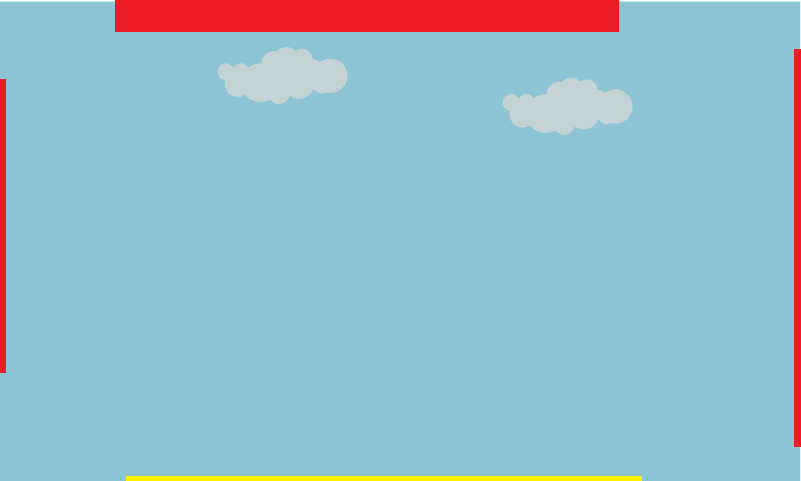
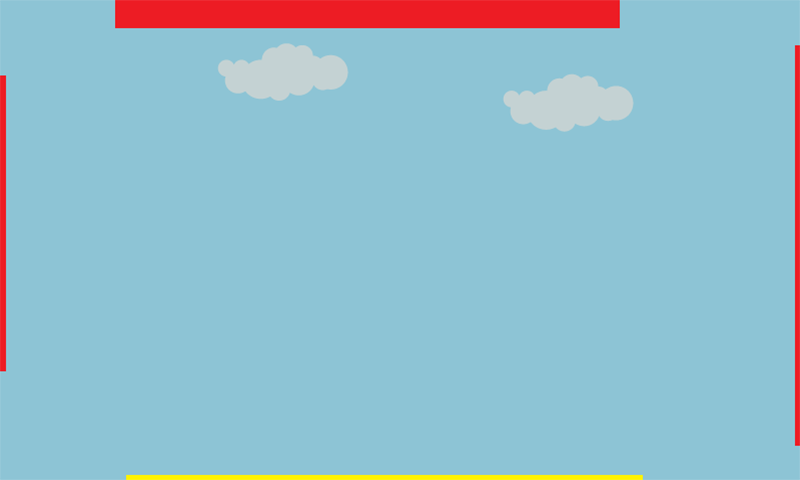
Collision detection + Support multi resolution

diff --git a/Classes/AppDelegate.cpp b/Classes/AppDelegate.cpp
@@ -42,10 +42,10 @@ using namespace CocosDenshion;
 
 USING_NS_CC;
 
-static cocos2d::Size designResolutionSize = cocos2d::Size(1000, 600);// bgWidth=801, bgheight=481 => 1000 / bgWidth * bgHeight = 600
+static cocos2d::Size designResolutionSize = cocos2d::Size(800, 480);// based on background image dimensions
 static cocos2d::Size smallResolutionSize = cocos2d::Size(480, 320);
-static cocos2d::Size mediumResolutionSize = cocos2d::Size(1024, 768);
-static cocos2d::Size largeResolutionSize = cocos2d::Size(2048, 1536);
+static cocos2d::Size mediumResolutionSize = cocos2d::Size(400, 240);
+static cocos2d::Size largeResolutionSize = cocos2d::Size(800, 480);
 
 AppDelegate::AppDelegate()
 {
@@ -83,7 +83,7 @@ bool AppDelegate::applicationDidFinishLaunching() {
     auto glview = director->getOpenGLView();
     if(!glview) {
 #if (CC_TARGET_PLATFORM == CC_PLATFORM_WIN32) || (CC_TARGET_PLATFORM == CC_PLATFORM_MAC) || (CC_TARGET_PLATFORM == CC_PLATFORM_LINUX)
-        glview = GLViewImpl::createWithRect("Bazooka", cocos2d::Rect(0, 0, designResolutionSize.width, designResolutionSize.height));
+        glview = GLViewImpl::createWithRect("Bazooka", cocos2d::Rect(0, 0, 1280, 720));
 #else
         glview = GLViewImpl::create("Bazooka");
 #endif
@@ -97,30 +97,24 @@ bool AppDelegate::applicationDidFinishLaunching() {
     director->setAnimationInterval(1.0f / 60);
 
     // Set the design resolution
-    glview->setDesignResolutionSize(designResolutionSize.width, designResolutionSize.height, ResolutionPolicy::NO_BORDER);
-    auto frameSize = glview->getFrameSize();
+	glview->setDesignResolutionSize(designResolutionSize.width, designResolutionSize.height, ResolutionPolicy::EXACT_FIT);
+
+	auto frameSize = glview->getFrameSize();
     // if the frame's height is larger than the height of medium size.
-    if (frameSize.height > mediumResolutionSize.height)
+    if (frameSize.height > 240)
     {        
-        director->setContentScaleFactor(MIN(largeResolutionSize.height/designResolutionSize.height, largeResolutionSize.width/designResolutionSize.width));
-    }
-    // if the frame's height is larger than the height of small size.
-    else if (frameSize.height > smallResolutionSize.height)
+        director->setContentScaleFactor(largeResolutionSize.height/designResolutionSize.height);
+    }else
     {        
-        director->setContentScaleFactor(MIN(mediumResolutionSize.height/designResolutionSize.height, mediumResolutionSize.width/designResolutionSize.width));
-    }
-    // if the frame's height is smaller than the height of medium size.
-    else
-    {        
-        director->setContentScaleFactor(MIN(smallResolutionSize.height/designResolutionSize.height, smallResolutionSize.width/designResolutionSize.width));
+        director->setContentScaleFactor(mediumResolutionSize.height/designResolutionSize.height);
     }
 
     register_all_packages();
 
     // create a scene. it's an autorelease object
     auto scene = HelloWorld::createScene();
-
-    // run
+    
+	// run
     director->runWithScene(scene);
 
     return true;

diff --git a/Classes/GameplayLayer.cpp b/Classes/GameplayLayer.cpp
@@ -1,11 +1,12 @@
 #include "GameplayLayer.h"
 #include "SimpleAudioEngine.h"
 
-GameplayLayer::GameplayLayer()
+GameplayLayer::GameplayLayer(Sprite* _hero)
 {
 	visibleSize = Director::getInstance()->getVisibleSize();
 	winSize = Director::getInstance()->getWinSize();
 	origin = Director::getInstance()->getVisibleOrigin();
+	hero = _hero;
 }
 
 GameplayLayer::~GameplayLayer()
@@ -68,6 +69,43 @@ void GameplayLayer::update()
 		}
 	}
 
+	//player rocket and enemies collision
+	if (playerBullets.size() >= 0)
+	{
+		for (int i = 0; i < playerBullets.size(); ++i)
+		{
+			Projectile* p = playerBullets.at(i);
+			if (enemies.size() > 0)
+			{
+				for (int j = 0; j < enemies.size(); ++j)
+				{
+					Enemy* en = enemies.at(j);
+					if (checkBoxCollision(p,en))
+					{
+						this->removeChild(p);
+						playerBullets.eraseObject(p);
+						enemiesToBeDeleted.pushBack(en);
+						return; // to get out of the loop.
+					}
+				}
+			}
+		}
+	}
+
+	//enemy bullets and player
+	if(enemyBullets.size() > 0)
+	{
+		for (int i = 0; i < enemyBullets.size(); ++i)
+		{
+			Projectile* pr = enemyBullets.at(i);
+			if(checkBoxCollision(pr, hero))
+			{
+				enemyBulletsToBeDeleted.pushBack(pr);
+				return;
+			}
+		}
+	}
+
 	Enemy* target = NULL;
 	for (int i = 0; i < enemiesToBeDeleted.size(); ++i)
 	{
@@ -86,6 +124,16 @@ void GameplayLayer::update()
 		enemyBulletsToBeDeleted.eraseObject(targetP);
 		this->removeChild(targetP, true);
 	}
-	CCLOG("player bullets: %d , enemy bullets %d", playerBullets.size(), enemyBullets.size());
+}
+
+bool GameplayLayer::checkBoxCollision(Sprite* box1, Sprite* box2)
+{
+	Rect box1Rect = box1->getBoundingBox();
+	Rect box2Rect = box2->getBoundingBox();
+	
+	if(box1Rect.intersectsRect(box2Rect))
+		return true;
+	
+	return false;
 }
 

diff --git a/Classes/HelloWorldScene.cpp b/Classes/HelloWorldScene.cpp
@@ -75,7 +75,7 @@ bool HelloWorld::init()
 		touchListener, this);
 
 	// gameplay layer
-	gameplayLayer = new GameplayLayer();
+	gameplayLayer = new GameplayLayer(hero);
 	this->addChild(gameplayLayer);
 
 	// spawn enemies
@@ -88,6 +88,15 @@ bool HelloWorld::init()
 	gravity = Vec2(0, -5);
 	jumping = false;
 	jumpTimer = 0;
+
+	// frame
+	float frameWidth = Director::getInstance()->getOpenGLView()->getFrameSize().width;
+	float frameHeight = Director::getInstance()->getOpenGLView()->getFrameSize().height;
+	Label* label = Label::create(StringUtils::format("frame width: %f \n frame height: %f",
+		frameWidth, frameHeight), "Arial", 27);
+	label->setPosition(Vec2(winSize.width/2, winSize.height * 0.8));
+	this->addChild(label);
+
     return true;
 }
 

diff --git a/Classes/GameplayLayer.h b/Classes/GameplayLayer.h
@@ -10,7 +10,7 @@ class GameplayLayer : public Layer
 {
 public:
 
-	GameplayLayer();
+	GameplayLayer(Sprite* _hero);
 	~GameplayLayer();
     
     Size visibleSize;
@@ -29,6 +29,9 @@ public:
 	Vector<Projectile*>* getPlayerBulletsArray();
 
 	void update();
+
+	bool checkBoxCollision(Sprite* box1, Sprite* box2);
+	Sprite* hero;
 };
 
 #endif // __BazookaGame_GameplayLayer__
